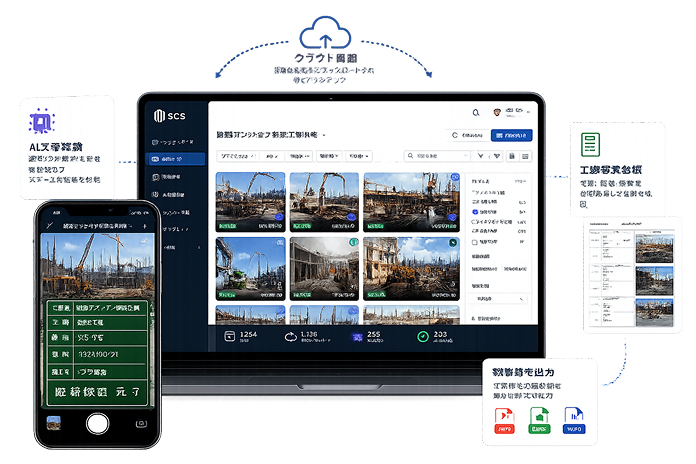
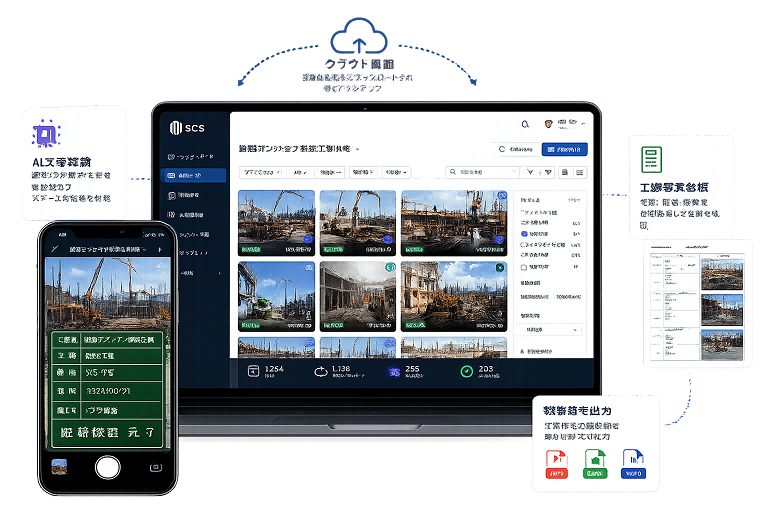
「選ばれる理由」3項目のアイコンを差し替え
lucide の Timer / Wallet / HardHat を、書き出し済みのアイコン画像に変更。

- 1分で自動作成      → mobile 1.png
- 残業・人件費を削減  → prioritization 1.png
- 現場管理に時間を    → agree 1.png

ファイル名に空白が含まれ URL エンコードが必要になるため、WebP 化のうえ
icon-mobile / icon-prioritization / icon-agree にリネームして参照している。

表示サイズは 28px から 36px に拡大した。差し替え前は線画アイコンだったが、
今回は塗りのイラストで、28px では内部の描き込みが潰れて判読できなかったため。

HardHat は「建設業向け設計」と「現場監督の方へ」で引き続き使用しているため
import は残し、未使用になった Timer と Wallet のみ削除。

diff --git a/src/app/page.tsx b/src/app/page.tsx
@@ -2,7 +2,7 @@ import type { Metadata } from 'next';
 import Image from 'next/image';
 import Link from 'next/link';
 import {
-  Timer, Wallet, HardHat, Check, ChevronsRight, ShieldCheck, Share2, Clock,
+  HardHat, Check, ChevronsRight, ShieldCheck, Share2, Clock,
   Camera, Cloud, Sparkles, FileSpreadsheet, FileOutput, UserRoundCog, Building, Landmark,
 } from 'lucide-react';
 import { SiteHeader } from '@/components/marketing/site-header';
@@ -34,9 +34,9 @@ function SectionTag({ children }: { children: React.ReactNode }) {
 }
 
 const BENEFITS = [
-  { icon: Timer, title: '1分で自動作成', body: '撮影後、その場ですぐに台帳が完成' },
-  { icon: Wallet, title: '残業・人件費を削減', body: '事務所に戻っての台帳作業が不要に' },
-  { icon: HardHat, title: '現場管理に時間を', body: '浮いた時間を安全・品質確認へ' },
+  { icon: '/brand/icon-mobile.webp', title: '1分で自動作成', body: '撮影後、その場ですぐに台帳が完成' },
+  { icon: '/brand/icon-prioritization.webp', title: '残業・人件費を削減', body: '事務所に戻っての台帳作業が不要に' },
+  { icon: '/brand/icon-agree.webp', title: '現場管理に時間を', body: '浮いた時間を安全・品質確認へ' },
 ];
 
 const STEPS = [
@@ -197,10 +197,23 @@ export default function LandingPage() {
 
         <section className="bg-surface-muted">
           <div className="mx-auto grid max-w-[1240px] gap-10 px-6 py-16 md:grid-cols-3 md:divide-x md:divide-border-subtle lg:px-10">
-            {BENEFITS.map(({ icon: Icon, title, body }) => (
+            {BENEFITS.map(({ icon, title, body }) => (
               <div key={title} className="md:px-8 md:first:pl-0 md:last:pr-0">
                 <h3 className="text-brand flex items-center gap-3 text-[19px] font-bold">
-                  <Icon className="size-7 shrink-0" strokeWidth={1.7} aria-hidden />
+                  {/* Decorative: the heading beside it already carries the meaning. */}
+                  {/*
+                    Rendered larger than the line icons these replaced: they are filled
+                    illustrations, and below ~36px the interior detail turns to mush.
+                  */}
+                  <Image
+                    src={icon}
+                    alt=""
+                    width={65}
+                    height={65}
+                    quality={95}
+                    aria-hidden
+                    className="size-9 shrink-0 object-contain"
+                  />
                   {title}
                 </h3>
                 <p className="text-ink-muted mt-4 text-[13px] leading-[2]">{body}</p>
